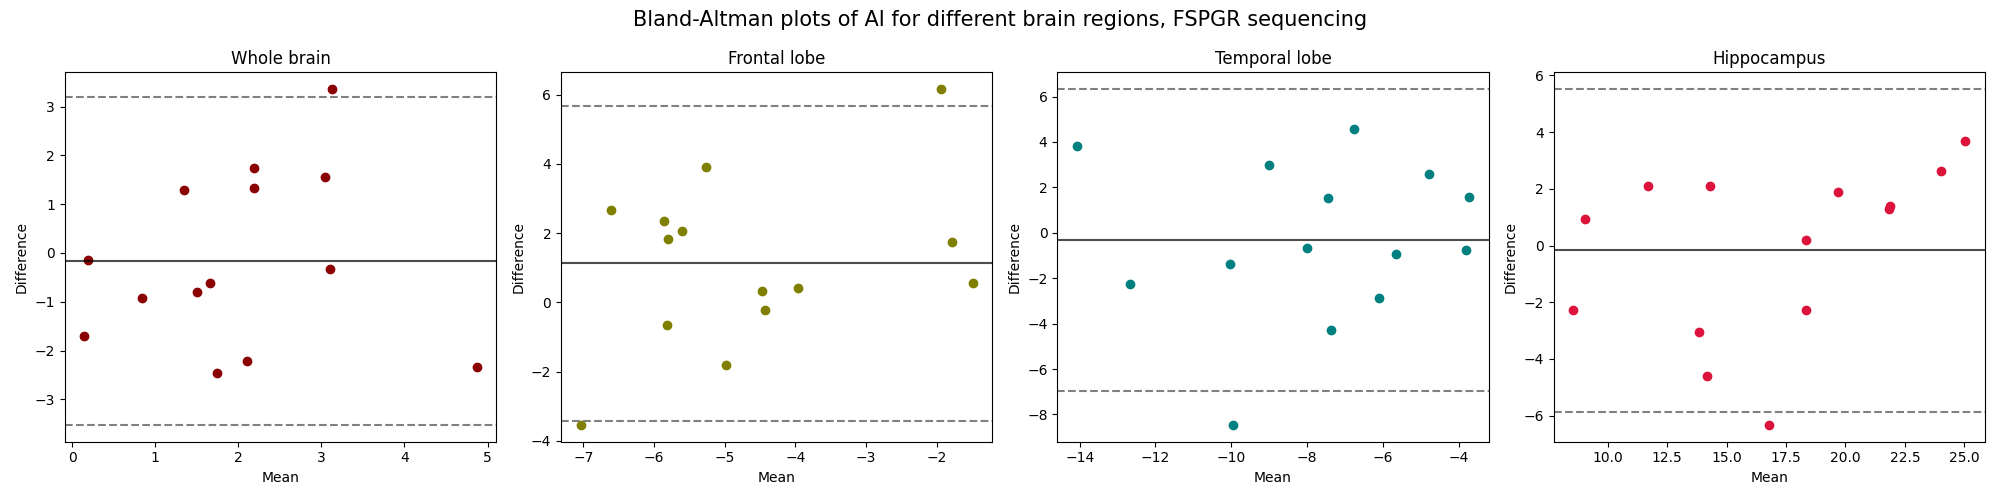
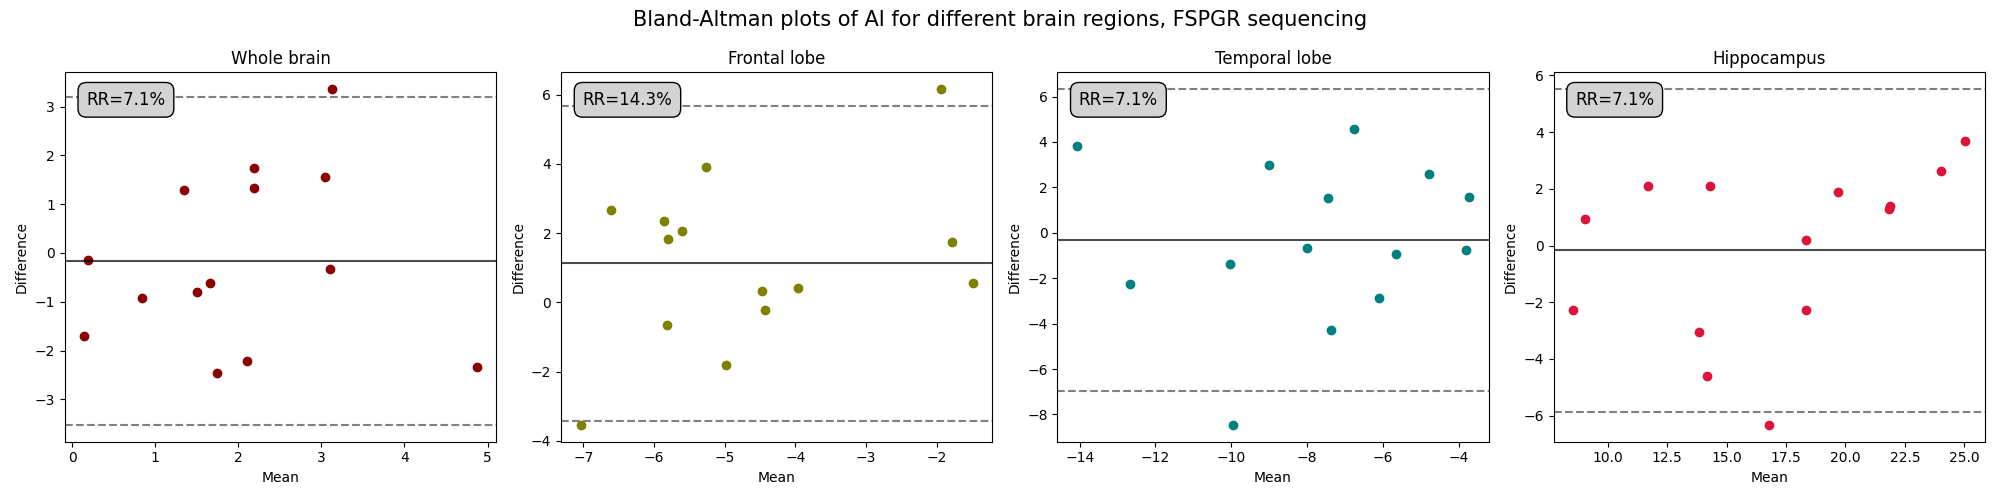
bland-altman with RR

diff --git a/code/test_retest_functions.py b/code/test_retest_functions.py
@@ -402,3 +402,14 @@ def calculate_LOA(m1_array, m2_array):
     rc = calculate_RC(m1_array, m2_array)
     loa = [mean + rc, mean -rc]
     return loa
+
+
+# response to repeatability ratio (R/R): the percentege of scan-pairs whose change between two timepoints fall outside of LOA.
+def calculate_RR(m1_array, m2_array):
+    diffs = calculate_diffs(m1_array, m2_array)
+    LOA = calculate_LOA(m1_array, m2_array)
+    N = len(diffs)
+    outsiders = [(diff > LOA[0]) or (diff < LOA[1]) for diff in diffs]
+    count_outsiders = np.sum(outsiders) 
+    RR = 100 * count_outsiders / N        # in percentages
+    return RR
